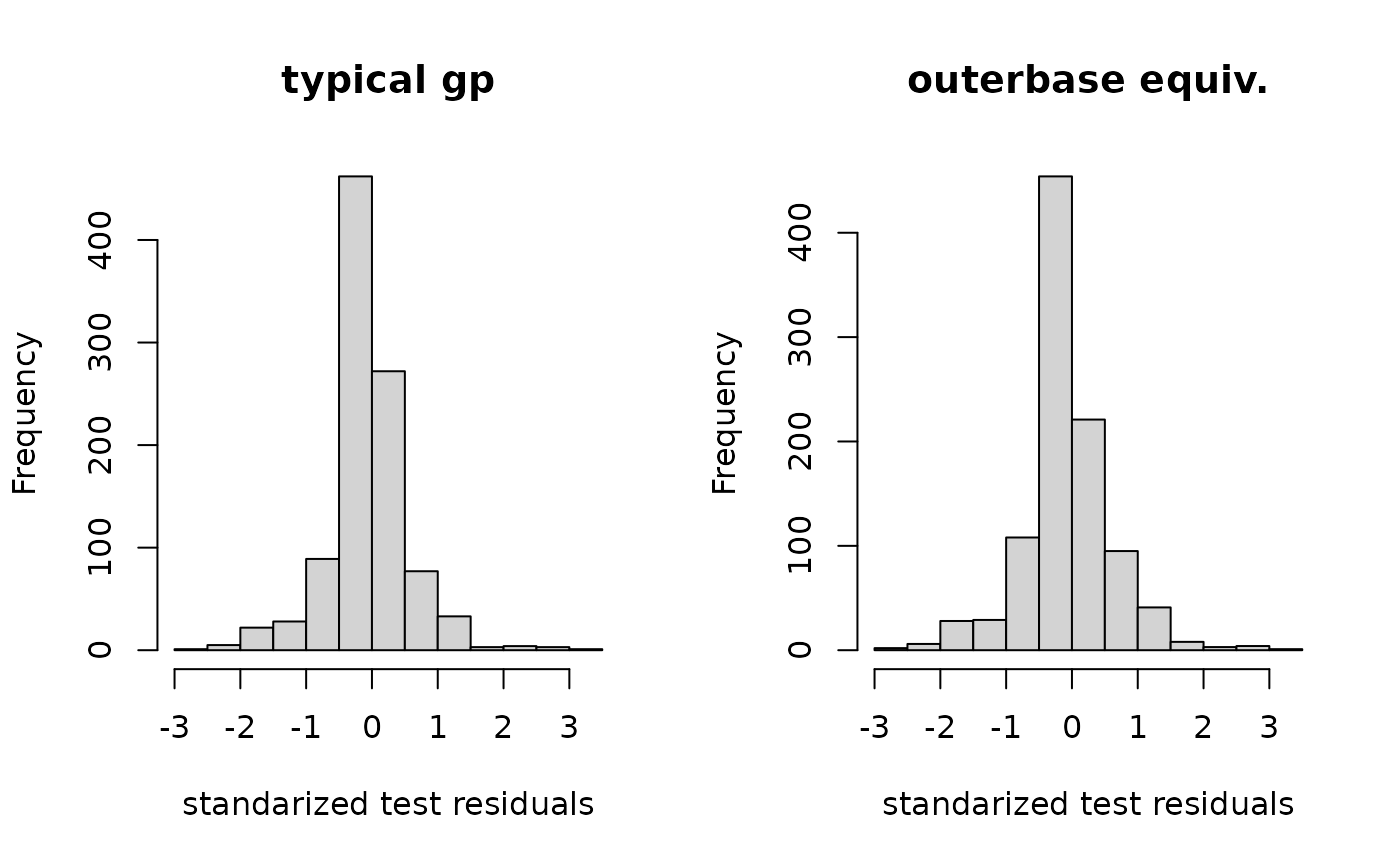
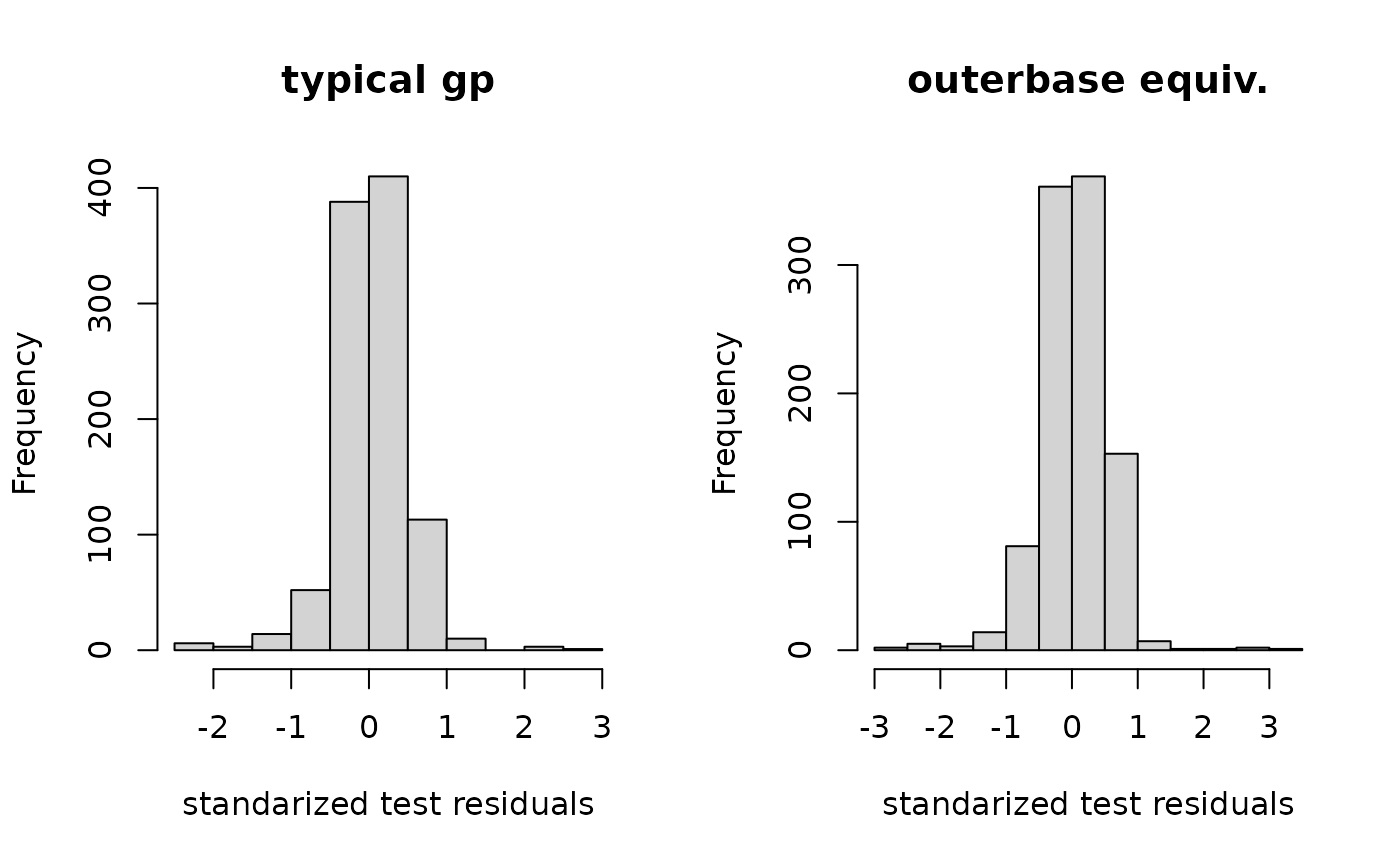
Built site for outerbase: 0.1.0@d79331a

diff --git a/articles/learning.html b/articles/learning.html
@@ -156,15 +156,15 @@
 <span class="va">coeffhere</span> <span class="op">=</span> <span class="fu"><a href="https://rdrr.io/r/base/rep.html" class="external-link">rep</a></span><span class="op">(</span><span class="fl">0</span>,<span class="va">loglik</span><span class="op">$</span><span class="va">nterms</span><span class="op">)</span>
 <span class="va">loglik</span><span class="op">$</span><span class="fu">update</span><span class="op">(</span><span class="va">coeffhere</span><span class="op">)</span> <span class="co"># update it to get gradients</span>
 <span class="va">loglik</span><span class="op">$</span><span class="va">val</span>
-<span class="co">#&gt; [1] -157.2298</span>
+<span class="co">#&gt; [1] -158.9773</span>
 <span class="fu"><a href="https://rdrr.io/r/utils/head.html" class="external-link">head</a></span><span class="op">(</span><span class="va">loglik</span><span class="op">$</span><span class="va">grad</span><span class="op">)</span> <span class="co"># dim 60 for number of coeffients</span>
-<span class="co">#&gt;             [,1]</span>
-<span class="co">#&gt; [1,]  0.06132942</span>
-<span class="co">#&gt; [2,]  2.45174651</span>
-<span class="co">#&gt; [3,] -1.05830556</span>
-<span class="co">#&gt; [4,] -0.59334205</span>
-<span class="co">#&gt; [5,] -0.06994568</span>
-<span class="co">#&gt; [6,] -0.07238581</span></code></pre></div>
+<span class="co">#&gt;            [,1]</span>
+<span class="co">#&gt; [1,]  0.1119043</span>
+<span class="co">#&gt; [2,] -0.8130878</span>
+<span class="co">#&gt; [3,]  2.6554610</span>
+<span class="co">#&gt; [4,] -0.2983242</span>
+<span class="co">#&gt; [5,] -0.7287453</span>
+<span class="co">#&gt; [6,]  0.4638779</span></code></pre></div>
 <p>A reasonable predictor also needs prior on the coefficients. This tells us what distribution we expect on the coefficients.</p>
 <div class="sourceCode" id="cb10"><pre class="downlit sourceCode r">
 <code class="sourceCode R"><span class="va">logpr</span> <span class="op">=</span> <span class="fu">new</span><span class="op">(</span><span class="va">logpr_gauss</span>, <span class="va">om</span>, <span class="va">terms</span><span class="op">)</span></code></pre></div>
@@ -176,7 +176,7 @@
 <span class="va">logpdf</span><span class="op">$</span><span class="fu">updatepara</span><span class="op">(</span><span class="va">para0</span><span class="op">)</span>
 <span class="fu"><a href="../reference/getpara.html">getpara</a></span><span class="op">(</span><span class="va">logpdf</span><span class="op">)</span>
 <span class="co">#&gt; noisescale coeffscale </span>
-<span class="co">#&gt;   3.135555   4.000000</span></code></pre></div>
+<span class="co">#&gt;    3.08248    4.00000</span></code></pre></div>
 <p>The coefficients <code>coeff</code> are considered ancillary parameters that need to be optimized out (or something more sophisticated, hint on current research). For this class, it is easiest to do this via <code>lpdf$optnewton</code>, which takes a single Newton step to optimize the coefficients.</p>
 <div class="sourceCode" id="cb12"><pre class="downlit sourceCode r">
 <code class="sourceCode R"><span class="va">logpdf</span><span class="op">$</span><span class="fu">optnewton</span><span class="op">(</span><span class="op">)</span></code></pre></div>
@@ -207,16 +207,16 @@
 <code class="sourceCode R"><span class="va">logpdf</span><span class="op">$</span><span class="fu">optnewton</span><span class="op">(</span><span class="op">)</span>
 <span class="va">logpdf</span><span class="op">$</span><span class="va">gradhyp</span>    <span class="co"># dim 6 for all hyperparameter</span>
 <span class="co">#&gt;            [,1]</span>
-<span class="co">#&gt; [1,] -1.8646843</span>
-<span class="co">#&gt; [2,]  0.1367914</span>
-<span class="co">#&gt; [3,]  7.7118090</span>
-<span class="co">#&gt; [4,]  0.8386114</span>
-<span class="co">#&gt; [5,]  6.4551161</span>
-<span class="co">#&gt; [6,]  0.6441583</span>
+<span class="co">#&gt; [1,] -1.5804993</span>
+<span class="co">#&gt; [2,]  0.1362988</span>
+<span class="co">#&gt; [3,]  7.3195108</span>
+<span class="co">#&gt; [4,]  0.7360618</span>
+<span class="co">#&gt; [5,]  6.6477736</span>
+<span class="co">#&gt; [6,]  0.7611804</span>
 <span class="va">logpdf</span><span class="op">$</span><span class="va">gradpara</span>   <span class="co"># dim 2 since 2 parameters</span>
 <span class="co">#&gt;            [,1]</span>
-<span class="co">#&gt; [1,] -18.571921</span>
-<span class="co">#&gt; [2,]  -1.800939</span></code></pre></div>
+<span class="co">#&gt; [1,] -18.605157</span>
+<span class="co">#&gt; [2,]  -1.626949</span></code></pre></div>
 <p>This allows us to use custom functions to learn these hyperparameters to give maximum predictive power. The goal right now is a single point estimate of these hyperparameters. One has to be very careful to keep these in good ranges, and the call below will make sure to return <code>-inf</code> if there is a problem with the chosen hyperparameters.</p>
 <div class="sourceCode" id="cb16"><pre class="downlit sourceCode r">
 <code class="sourceCode R"><span class="va">totobj</span> <span class="op">=</span> <span class="kw">function</span><span class="op">(</span><span class="va">hypl</span><span class="op">)</span> <span class="op">{</span> <span class="co">#my optimization function for tuning</span>
@@ -238,50 +238,50 @@
 <code class="sourceCode R"><span class="va">hypl</span> <span class="op">=</span> <span class="fu"><a href="https://rdrr.io/r/base/list.html" class="external-link">list</a></span><span class="op">(</span>para <span class="op">=</span> <span class="fu"><a href="../reference/getpara.html">getpara</a></span><span class="op">(</span><span class="va">logpdf</span><span class="op">)</span>, hyp <span class="op">=</span> <span class="fu"><a href="../reference/gethyp.html">gethyp</a></span><span class="op">(</span><span class="va">om</span><span class="op">)</span><span class="op">)</span>
 <span class="fu">totobj</span><span class="op">(</span><span class="va">hypl</span><span class="op">)</span>
 <span class="co">#&gt; $val</span>
-<span class="co">#&gt; [1] 88.35303</span>
+<span class="co">#&gt; [1] 87.26913</span>
 <span class="co">#&gt; </span>
 <span class="co">#&gt; $gval</span>
 <span class="co">#&gt; $gval$para</span>
 <span class="co">#&gt;           [,1]</span>
-<span class="co">#&gt; [1,] 18.571921</span>
-<span class="co">#&gt; [2,]  1.300939</span>
+<span class="co">#&gt; [1,] 18.605157</span>
+<span class="co">#&gt; [2,]  1.126949</span>
 <span class="co">#&gt; </span>
 <span class="co">#&gt; $gval$hyp</span>
 <span class="co">#&gt;             [,1]</span>
-<span class="co">#&gt; [1,]  -3.4924586</span>
-<span class="co">#&gt; [2,]  -0.1367914</span>
-<span class="co">#&gt; [3,] -13.0689519</span>
-<span class="co">#&gt; [4,]  -0.8386114</span>
-<span class="co">#&gt; [5,] -11.8122590</span>
-<span class="co">#&gt; [6,]  -0.6441583</span>
+<span class="co">#&gt; [1,]  -3.7766436</span>
+<span class="co">#&gt; [2,]  -0.1362988</span>
+<span class="co">#&gt; [3,] -12.6766537</span>
+<span class="co">#&gt; [4,]  -0.7360618</span>
+<span class="co">#&gt; [5,] -12.0049165</span>
+<span class="co">#&gt; [6,]  -0.7611804</span>
 <span class="va">opth</span> <span class="op">=</span> <span class="fu"><a href="../reference/BFGS_std.html">BFGS_std</a></span><span class="op">(</span><span class="va">totobj</span>, <span class="va">hypl</span>, verbose<span class="op">=</span><span class="fl">3</span><span class="op">)</span> <span class="co">#</span>
 <span class="co">#&gt; [1] "doing opt..."</span>
 <span class="co">#&gt; [1] "Wolfe conditions"</span>
-<span class="co">#&gt; [1]  -2.547346 -44.730643</span>
-<span class="co">#&gt; [1] 85.80519</span>
+<span class="co">#&gt; [1]  -2.527114 -45.089116</span>
+<span class="co">#&gt; [1] 84.74152</span>
 <span class="co">#&gt; [1] "Wolfe conditions"</span>
-<span class="co">#&gt; [1] -1.0413926  0.7758913</span>
-<span class="co">#&gt; [1] 78.20374</span>
+<span class="co">#&gt; [1] -1.0278201  0.7589383</span>
+<span class="co">#&gt; [1] 77.25422</span>
 <span class="co">#&gt; [1] "Wolfe conditions"</span>
-<span class="co">#&gt; [1] -11.12319 -66.97596</span>
-<span class="co">#&gt; [1] 67.0771</span>
+<span class="co">#&gt; [1] -13.69616 -52.67214</span>
+<span class="co">#&gt; [1] 63.55475</span>
 <span class="co">#&gt; [1] "Wolfe conditions"</span>
-<span class="co">#&gt; [1]  -9.64457 -25.53975</span>
-<span class="co">#&gt; [1] 57.43011</span>
+<span class="co">#&gt; [1]  -8.325354 -16.041241</span>
+<span class="co">#&gt; [1] 55.22768</span>
 <span class="co">#&gt; [1] "Wolfe conditions"</span>
-<span class="co">#&gt; [1] -6.9248556 -0.6495823</span>
-<span class="co">#&gt; [1] 50.50449</span>
+<span class="co">#&gt; [1] -7.804353 -1.335376</span>
+<span class="co">#&gt; [1] 47.42244</span>
 <span class="co">#&gt; [1] "Wolfe conditions"</span>
-<span class="co">#&gt; [1] -17.03187 -36.15836</span>
-<span class="co">#&gt; [1] 33.46899</span>
+<span class="co">#&gt; [1] -16.00359 -22.97817</span>
+<span class="co">#&gt; [1] 31.41597</span>
 <span class="co">#&gt; [1] "Wolfe conditions"</span>
-<span class="co">#&gt; [1]  0.1494127 -7.0986601</span>
-<span class="co">#&gt; [1] 32.55157</span>
+<span class="co">#&gt; [1] -0.979854 -2.293233</span>
+<span class="co">#&gt; [1] 30.43589</span>
 <span class="co">#&gt; [1] "Wolfe conditions"</span>
-<span class="co">#&gt; [1] -0.1449747 -0.1837861</span>
-<span class="co">#&gt; [1] 32.40658</span>
+<span class="co">#&gt; [1] -0.0514279 -0.4289897</span>
+<span class="co">#&gt; [1] 30.38443</span>
 <span class="co">#&gt; [1] "Wolfe conditions"</span>
-<span class="co">#&gt; [1] -0.03382053 -0.03293540</span>
+<span class="co">#&gt; [1] -0.04258925 -0.10586358</span>
 <span class="co">#&gt; [1] "finished opt..."</span></code></pre></div>
 <p>Then we just have to update out parameters and re-optimize.</p>
 <div class="sourceCode" id="cb18"><pre class="downlit sourceCode r">
@@ -295,34 +295,31 @@
                  verbose <span class="op">=</span> <span class="fl">3</span>, newt<span class="op">=</span> <span class="cn">T</span><span class="op">)</span>  
 <span class="co">#&gt; [1] "doing opt..."</span>
 <span class="co">#&gt; [1] "Wolfe conditions"</span>
-<span class="co">#&gt; [1]  -2.547346 -44.730643</span>
-<span class="co">#&gt; [1] 85.80519</span>
+<span class="co">#&gt; [1]  -2.527114 -45.089116</span>
+<span class="co">#&gt; [1] 84.74152</span>
 <span class="co">#&gt; [1] "Wolfe conditions"</span>
-<span class="co">#&gt; [1] -1.0413926  0.7758913</span>
-<span class="co">#&gt; [1] 78.20374</span>
+<span class="co">#&gt; [1] -1.0278201  0.7589383</span>
+<span class="co">#&gt; [1] 77.25422</span>
 <span class="co">#&gt; [1] "Wolfe conditions"</span>
-<span class="co">#&gt; [1] -11.12319 -66.97596</span>
-<span class="co">#&gt; [1] 67.0771</span>
+<span class="co">#&gt; [1] -13.69616 -52.67214</span>
+<span class="co">#&gt; [1] 63.55475</span>
 <span class="co">#&gt; [1] "Wolfe conditions"</span>
-<span class="co">#&gt; [1]  -9.64457 -25.53975</span>
-<span class="co">#&gt; [1] 57.43011</span>
+<span class="co">#&gt; [1]  -8.325354 -16.041241</span>
+<span class="co">#&gt; [1] 55.22768</span>
 <span class="co">#&gt; [1] "Wolfe conditions"</span>
-<span class="co">#&gt; [1] -6.9248556 -0.6495823</span>
-<span class="co">#&gt; [1] 50.50449</span>
+<span class="co">#&gt; [1] -7.804353 -1.335376</span>
+<span class="co">#&gt; [1] 47.42244</span>
 <span class="co">#&gt; [1] "Wolfe conditions"</span>
-<span class="co">#&gt; [1] -17.03187 -36.15836</span>
-<span class="co">#&gt; [1] 33.46899</span>
+<span class="co">#&gt; [1] -16.00359 -22.97817</span>
+<span class="co">#&gt; [1] 31.41597</span>
 <span class="co">#&gt; [1] "Wolfe conditions"</span>
-<span class="co">#&gt; [1]  0.1494127 -7.0986601</span>
-<span class="co">#&gt; [1] 30.90201</span>
+<span class="co">#&gt; [1] -0.979854 -2.293233</span>
+<span class="co">#&gt; [1] 30.43589</span>
 <span class="co">#&gt; [1] "Wolfe conditions"</span>
-<span class="co">#&gt; [1]  1.4977785 -0.6609533</span>
-<span class="co">#&gt; [1] 32.55157</span>
+<span class="co">#&gt; [1] -0.0514279 -0.4289897</span>
+<span class="co">#&gt; [1] 30.38443</span>
 <span class="co">#&gt; [1] "Wolfe conditions"</span>
-<span class="co">#&gt; [1]   614.3913 -3656.5915</span>
-<span class="co">#&gt; [1] 32.45716</span>
-<span class="co">#&gt; [1] "Wolfe conditions"</span>
-<span class="co">#&gt; [1] -0.001331536  0.006470923</span>
+<span class="co">#&gt; [1] -0.04258925 -0.10586358</span>
 <span class="co">#&gt; [1] "finished opt..."</span></code></pre></div>
 <p>The revised predictions are then built after hyperparameter optimization where we find improved predictive accuracy in nearly every category.</p>
 <div class="sourceCode" id="cb20"><pre class="downlit sourceCode r">

diff --git a/articles/basebasics.html b/articles/basebasics.html
@@ -233,10 +233,10 @@
 <span class="co">#&gt;      [,1] [,2] [,3]</span>
 <span class="co">#&gt; [1,]    0    0    0</span>
 <span class="co">#&gt; [2,]    0    1    0</span>
-<span class="co">#&gt; [3,]    1    0    0</span>
-<span class="co">#&gt; [4,]    0    0    1</span>
+<span class="co">#&gt; [3,]    0    0    1</span>
+<span class="co">#&gt; [4,]    1    0    0</span>
 <span class="co">#&gt; [5,]    0    1    1</span>
-<span class="co">#&gt; [6,]    1    0    1</span></code></pre></div>
+<span class="co">#&gt; [6,]    1    1    0</span></code></pre></div>
 <p><code>outermod$getvar</code> will tell us the vector of variances associated with these coefficients at these <code>terms</code>.</p>
 <div class="sourceCode" id="cb20"><pre class="downlit sourceCode r">
 <code class="sourceCode R"><span class="va">covcoeff</span> <span class="op">=</span> <span class="fu"><a href="https://rdrr.io/r/base/vector.html" class="external-link">as.vector</a></span><span class="op">(</span><span class="va">om</span><span class="op">$</span><span class="fu">getvar</span><span class="op">(</span><span class="va">terms</span><span class="op">)</span><span class="op">)</span></code></pre></div>
@@ -250,12 +250,12 @@
   <span class="va">ob</span><span class="op">$</span><span class="fu">getbase</span><span class="op">(</span><span class="fl">3</span><span class="op">)</span><span class="op">[</span>,<span class="va">terms</span><span class="op">[</span><span class="va">termno</span>,<span class="fl">3</span><span class="op">]</span><span class="op">+</span><span class="fl">1</span><span class="op">]</span>
 
 <span class="fu"><a href="https://rdrr.io/r/base/cbind.html" class="external-link">cbind</a></span><span class="op">(</span><span class="va">basevec</span><span class="op">[</span><span class="fl">1</span><span class="op">:</span><span class="fl">5</span><span class="op">]</span>,<span class="va">basismat</span><span class="op">[</span><span class="fl">1</span><span class="op">:</span><span class="fl">5</span>,<span class="fl">5</span><span class="op">]</span><span class="op">)</span> <span class="co">#equal</span>
-<span class="co">#&gt;             [,1]        [,2]</span>
-<span class="co">#&gt; [1,]  0.87690663  0.87690663</span>
-<span class="co">#&gt; [2,]  0.06499895  0.06499895</span>
-<span class="co">#&gt; [3,] -0.22666527 -0.22666527</span>
-<span class="co">#&gt; [4,] -0.26900308 -0.26900308</span>
-<span class="co">#&gt; [5,] -0.05536007 -0.05536007</span></code></pre></div>
+<span class="co">#&gt;            [,1]       [,2]</span>
+<span class="co">#&gt; [1,] -0.3904776 -0.3904776</span>
+<span class="co">#&gt; [2,]  1.1182864  1.1182864</span>
+<span class="co">#&gt; [3,]  1.5106317  1.5106317</span>
+<span class="co">#&gt; [4,]  1.5916723  1.5916723</span>
+<span class="co">#&gt; [5,] -1.7484999 -1.7484999</span></code></pre></div>
 </div>
 </div>
 <div class="section level2">
@@ -268,18 +268,18 @@
 
 <span class="fu"><a href="https://rdrr.io/r/base/print.html" class="external-link">print</a></span><span class="op">(</span><span class="fu"><a href="https://rdrr.io/r/base/Round.html" class="external-link">round</a></span><span class="op">(</span><span class="va">cormattot</span><span class="op">[</span><span class="fl">1</span><span class="op">:</span><span class="fl">5</span>,<span class="fl">1</span><span class="op">:</span><span class="fl">5</span><span class="op">]</span>,<span class="fl">3</span><span class="op">)</span><span class="op">)</span> <span class="co"># typical gp</span>
 <span class="co">#&gt;       [,1]  [,2]  [,3]  [,4]  [,5]</span>
-<span class="co">#&gt; [1,] 1.000 0.918 0.850 0.865 0.701</span>
-<span class="co">#&gt; [2,] 0.918 1.000 0.975 0.815 0.853</span>
-<span class="co">#&gt; [3,] 0.850 0.975 1.000 0.828 0.941</span>
-<span class="co">#&gt; [4,] 0.865 0.815 0.828 1.000 0.802</span>
-<span class="co">#&gt; [5,] 0.701 0.853 0.941 0.802 1.000</span>
+<span class="co">#&gt; [1,] 1.000 0.575 0.827 0.491 0.411</span>
+<span class="co">#&gt; [2,] 0.575 1.000 0.344 0.928 0.414</span>
+<span class="co">#&gt; [3,] 0.827 0.344 1.000 0.314 0.519</span>
+<span class="co">#&gt; [4,] 0.491 0.928 0.314 1.000 0.513</span>
+<span class="co">#&gt; [5,] 0.411 0.414 0.519 0.513 1.000</span>
 <span class="fu"><a href="https://rdrr.io/r/base/print.html" class="external-link">print</a></span><span class="op">(</span><span class="fu"><a href="https://rdrr.io/r/base/Round.html" class="external-link">round</a></span><span class="op">(</span><span class="va">cormatob</span><span class="op">[</span><span class="fl">1</span><span class="op">:</span><span class="fl">5</span>,<span class="fl">1</span><span class="op">:</span><span class="fl">5</span><span class="op">]</span>,<span class="fl">3</span><span class="op">)</span><span class="op">)</span> <span class="co"># outerbase</span>
 <span class="co">#&gt;       [,1]  [,2]  [,3]  [,4]  [,5]</span>
-<span class="co">#&gt; [1,] 1.000 0.918 0.850 0.865 0.701</span>
-<span class="co">#&gt; [2,] 0.918 1.000 0.975 0.815 0.853</span>
-<span class="co">#&gt; [3,] 0.850 0.975 1.000 0.828 0.941</span>
-<span class="co">#&gt; [4,] 0.865 0.815 0.828 1.000 0.802</span>
-<span class="co">#&gt; [5,] 0.701 0.853 0.941 0.802 1.000</span></code></pre></div>
+<span class="co">#&gt; [1,] 1.000 0.575 0.827 0.491 0.411</span>
+<span class="co">#&gt; [2,] 0.575 0.999 0.344 0.928 0.414</span>
+<span class="co">#&gt; [3,] 0.827 0.344 1.000 0.314 0.519</span>
+<span class="co">#&gt; [4,] 0.491 0.928 0.314 1.000 0.513</span>
+<span class="co">#&gt; [5,] 0.411 0.414 0.519 0.513 0.999</span></code></pre></div>
 <p>They means that we can leverage <a href="https://en.wikipedia.org/wiki/Bayesian_linear_regression" class="external-link">Bayesian linear regression</a> to do prediction. This will require assuming that there is some <code>noisevar</code>, which is also called the nugget in the Gaussian process literature.</p>
 <div class="sourceCode" id="cb23"><pre class="downlit sourceCode r">
 <code class="sourceCode R"><span class="va">noisevar</span> <span class="op">=</span> <span class="fl">10</span><span class="op">^</span><span class="op">(</span><span class="op">-</span><span class="fl">4</span><span class="op">)</span>

diff --git a/articles/speed.html b/articles/speed.html
@@ -165,7 +165,7 @@
 <span class="va">yhat_slow</span> <span class="op">=</span> <span class="fu"><a href="https://rdrr.io/r/base/vector.html" class="external-link">as.vector</a></span><span class="op">(</span><span class="va">pred_slow</span><span class="op">$</span><span class="fu">mean</span><span class="op">(</span><span class="op">)</span><span class="op">)</span>
 <span class="fu"><a href="https://rdrr.io/r/base/print.html" class="external-link">print</a></span><span class="op">(</span><span class="va">t_slow</span><span class="op">)</span>
 <span class="co">#&gt;    user  system elapsed </span>
-<span class="co">#&gt;  24.968   0.020  24.096</span></code></pre></div>
+<span class="co">#&gt;  19.057   0.025  18.202</span></code></pre></div>
 <div class="sourceCode" id="cb15"><pre class="downlit sourceCode r">
 <code class="sourceCode R"><span class="va">ptm</span> <span class="op">=</span> <span class="fu"><a href="https://rdrr.io/r/base/proc.time.html" class="external-link">proc.time</a></span><span class="op">(</span><span class="op">)</span>
 <span class="va">opth</span> <span class="op">=</span> <span class="fu"><a href="../reference/BFGS_lpdf.html">BFGS_lpdf</a></span><span class="op">(</span><span class="va">om</span>, <span class="va">logpdf_fast</span>, 
@@ -176,7 +176,7 @@
 <span class="va">yhat_fast</span> <span class="op">=</span> <span class="fu"><a href="https://rdrr.io/r/base/vector.html" class="external-link">as.vector</a></span><span class="op">(</span><span class="va">pred_fast</span><span class="op">$</span><span class="fu">mean</span><span class="op">(</span><span class="op">)</span><span class="op">)</span>
 <span class="fu"><a href="https://rdrr.io/r/base/print.html" class="external-link">print</a></span><span class="op">(</span><span class="va">t_fast</span><span class="op">)</span>
 <span class="co">#&gt;    user  system elapsed </span>
-<span class="co">#&gt;   1.594   0.048   0.993</span></code></pre></div>
+<span class="co">#&gt;   1.490   0.060   0.975</span></code></pre></div>
 </div>
 <div class="section level2">
 <h2 id="comparison-of-results">Comparison of results<a class="anchor" aria-label="anchor" href="#comparison-of-results"></a>
